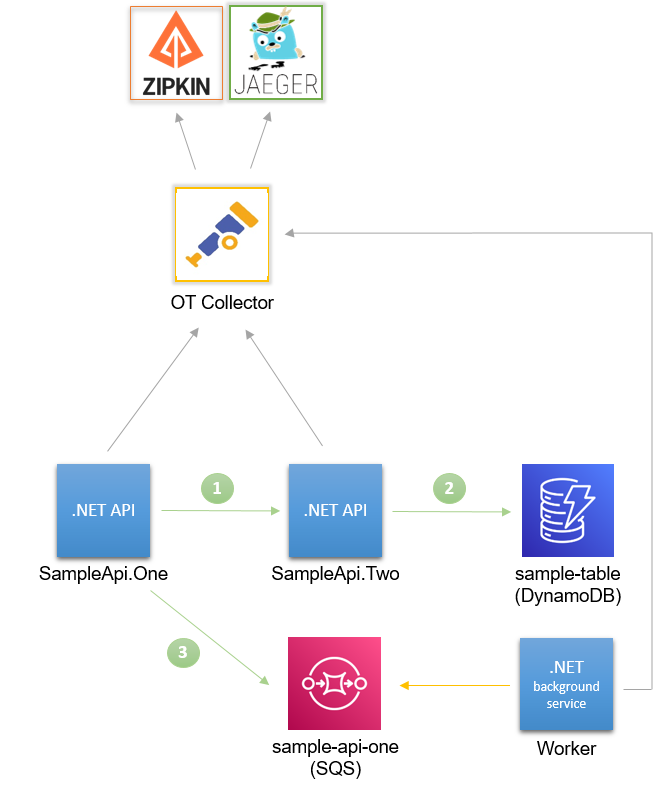
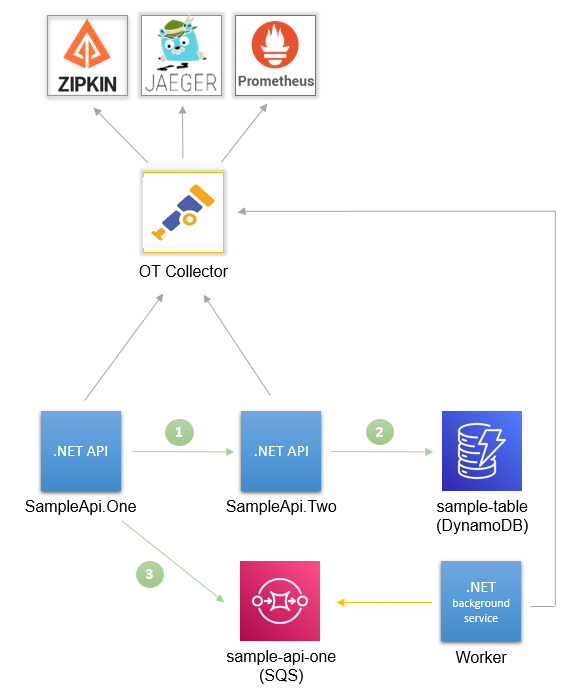
Add prometheus integration

diff --git a/README.md b/README.md
@@ -22,8 +22,9 @@ docker-compose -f docker-compose.yml -f docker-compose-otel-collector.yml up --b
 ```
 
 Backends:
-* Zipkin: http://localhost:9411/
-* Jaeger: http://localhost:16686/
+* Zipkin (traces): http://localhost:9411/
+* Jaeger (traces): http://localhost:16686/
+* Prometheus (metrics): http://localhost:9090/
 
 Architecture:
 
